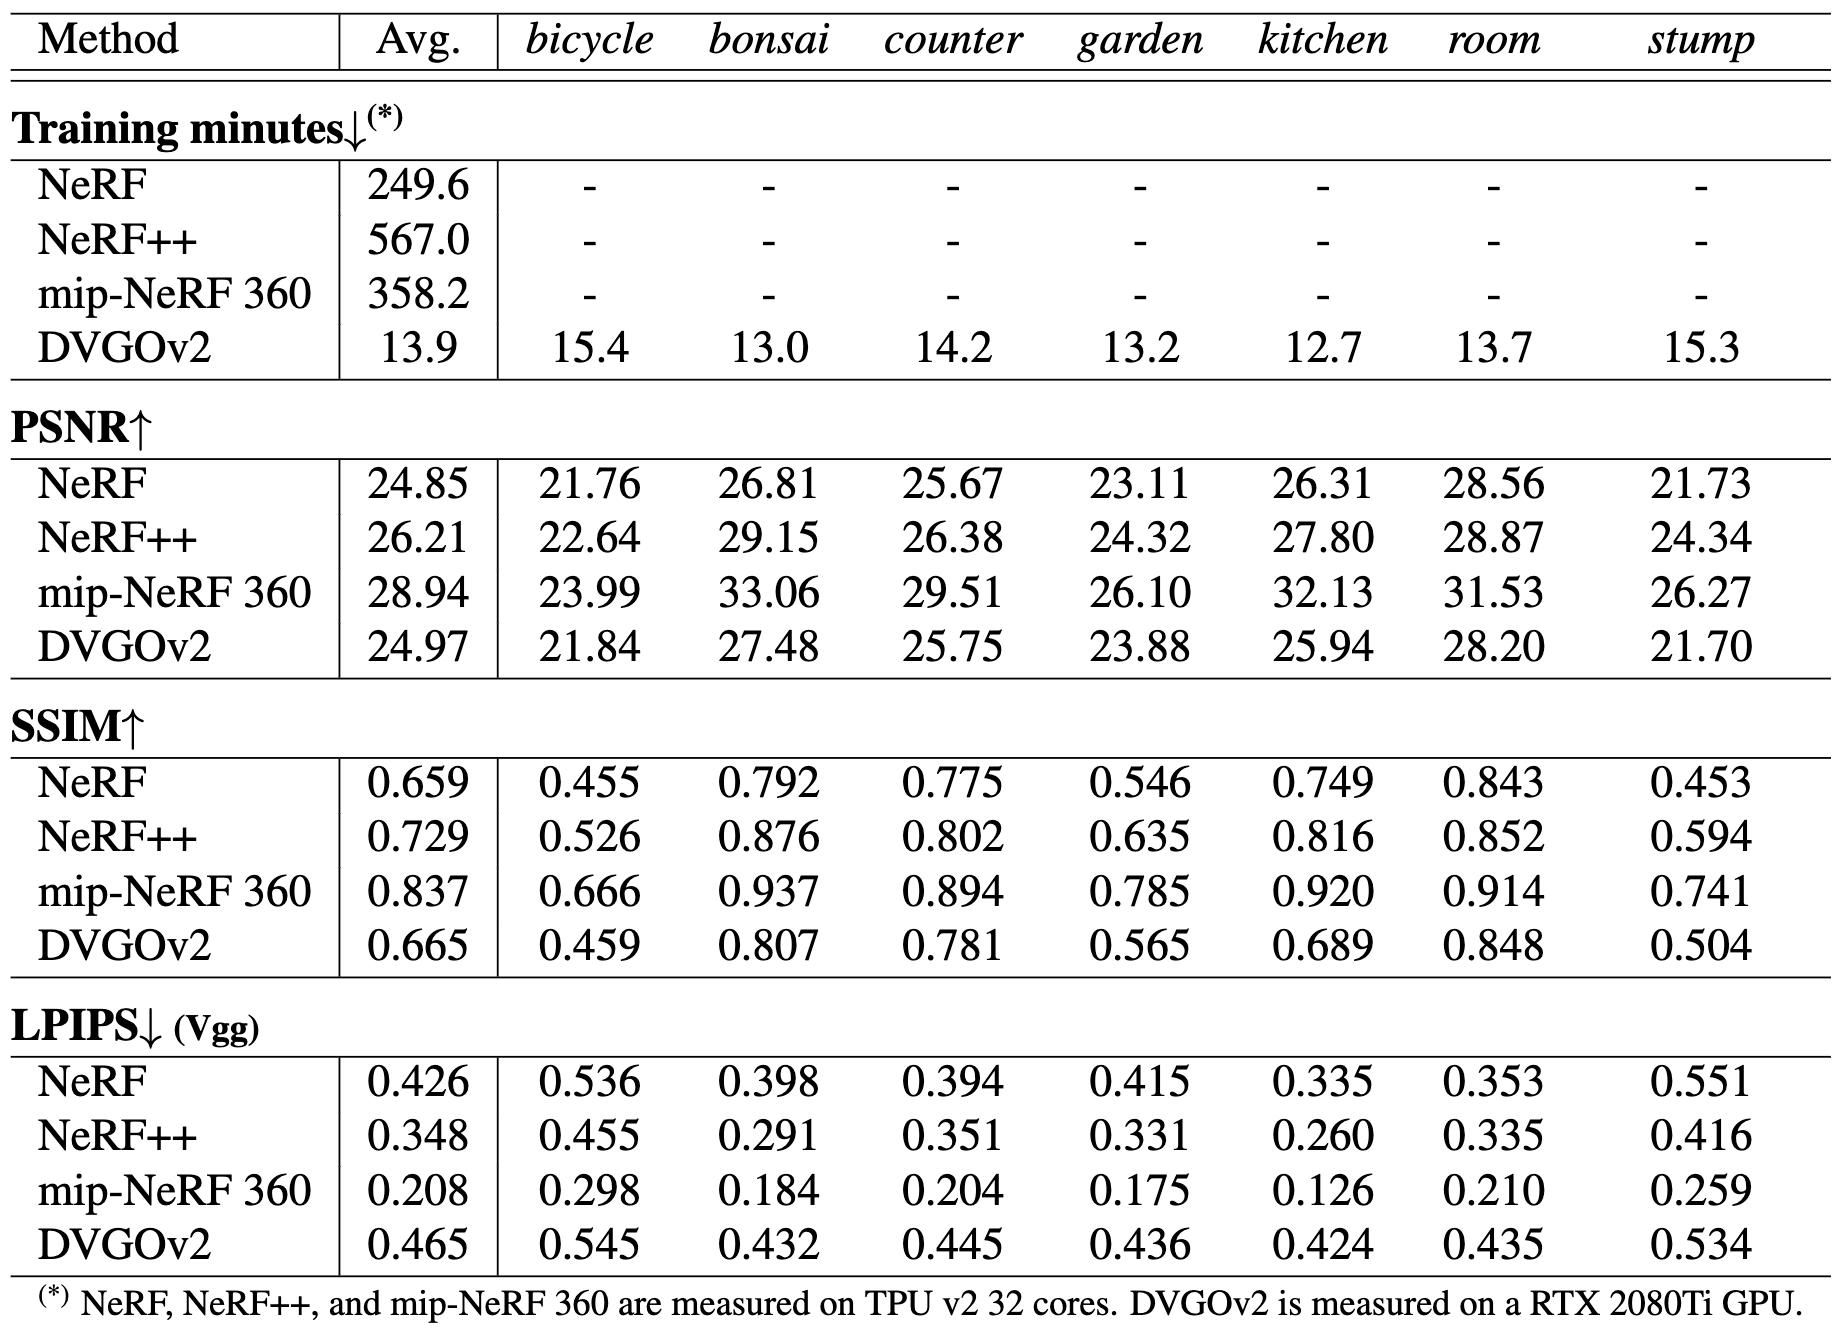
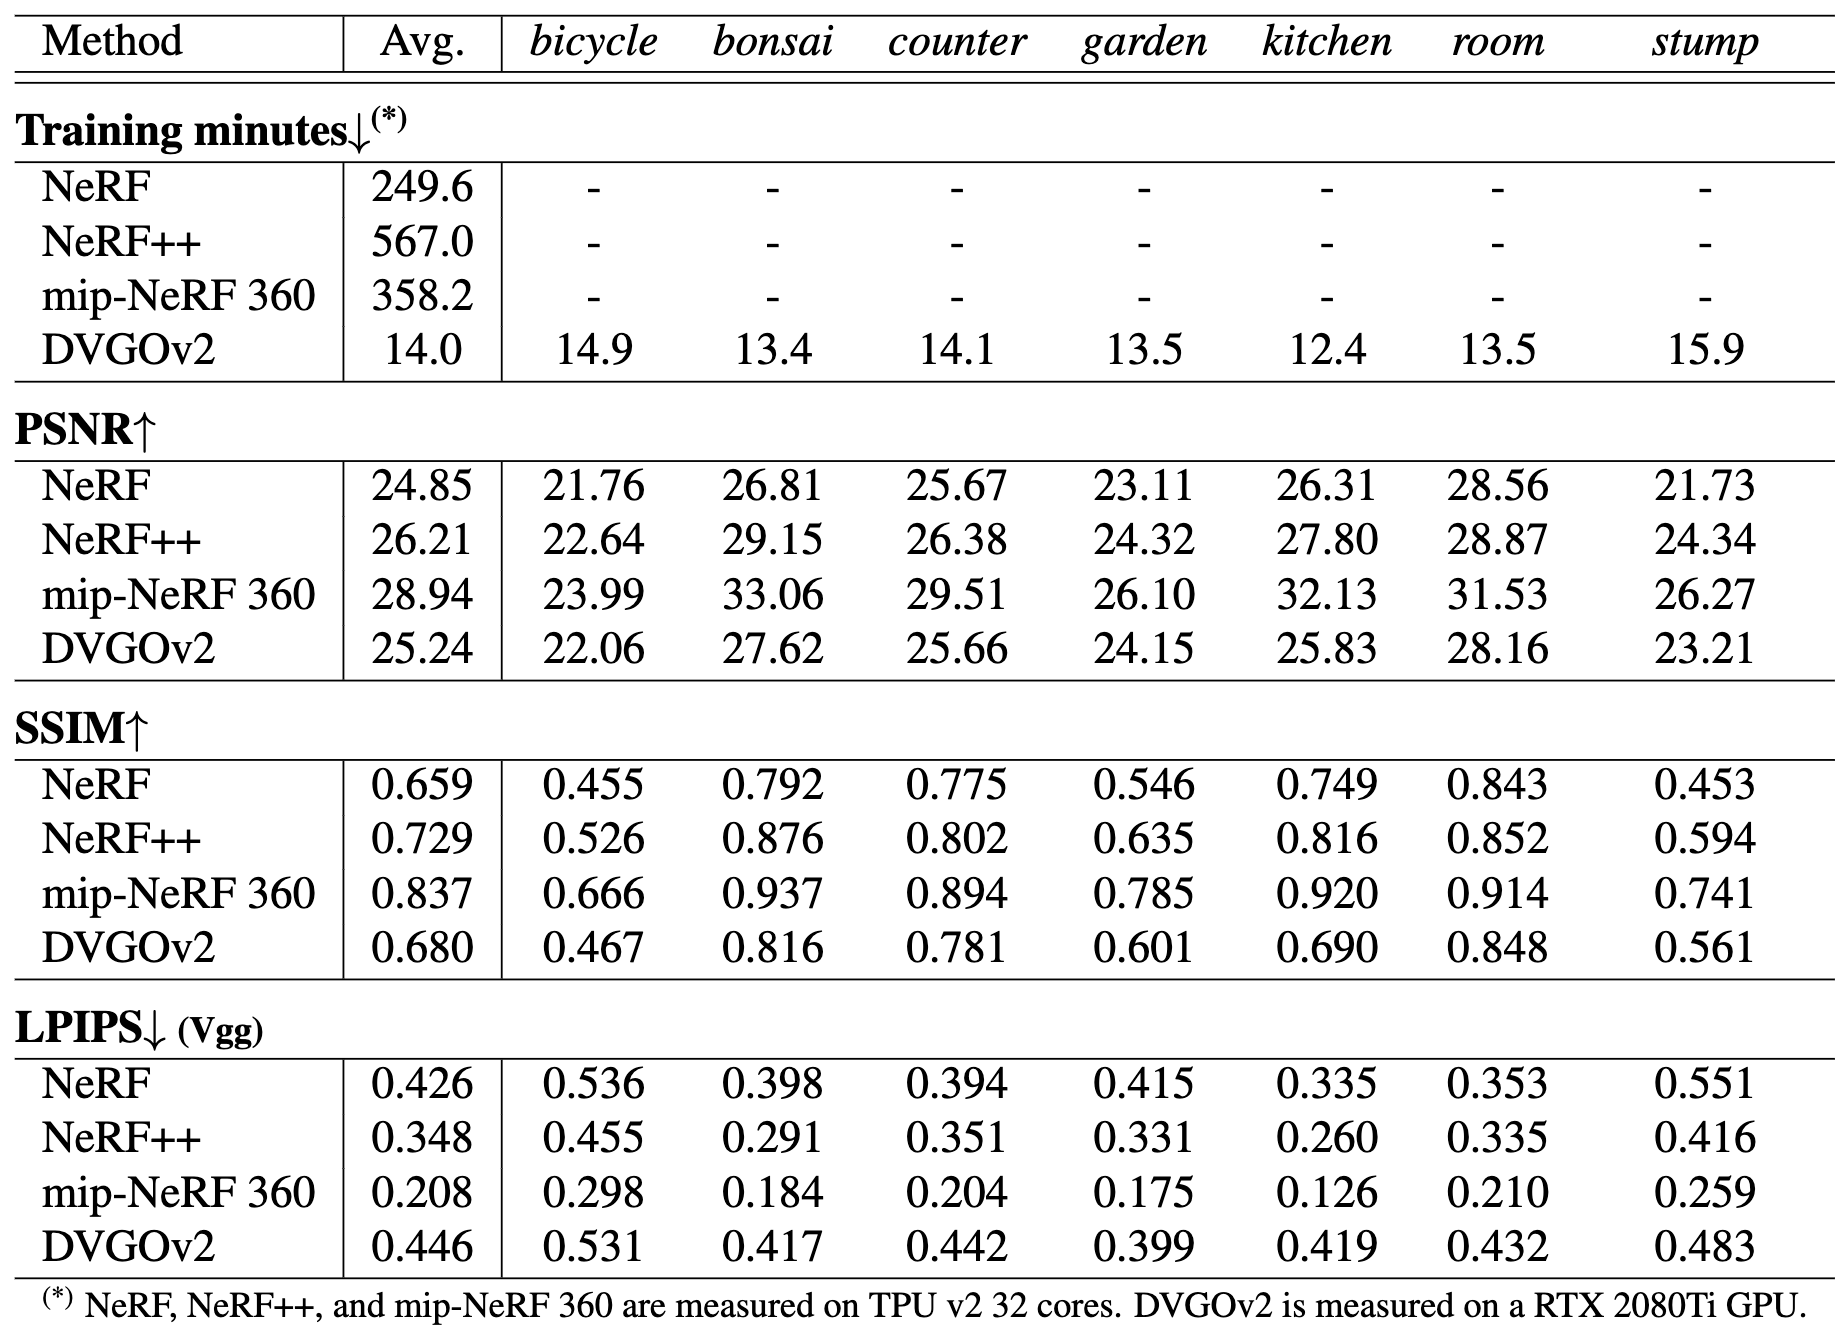
update mipnerf360 breakdown

diff --git a/dvgo/results.html b/dvgo/results.html
@@ -236,7 +236,7 @@
     NeRF         & 249.6 &   -  &   -  &   -  &   -  &   -  &   -  &   - \\
     NeRF++       & 567.0 &   -  &   -  &   -  &   -  &   -  &   -  &   - \\
     mip-NeRF 360 & 358.2 &   -  &   -  &   -  &   -  &   -  &   -  &   - \\
-    DVGOv2       & 13.9  & 15.4 & 13.0 & 14.2 & 13.2 & 12.7 & 13.7 & 15.3 \\
+    DVGOv2       &  14.0 & 14.9 &  13.4 &  14.1 &  13.5 &  12.4 &  13.5 &  15.9 \\
     \hline
 
     \multicolumn{9}{@{}l}{\rule{0pt}{3ex}\bf PSNR$\uparrow$} \\
@@ -244,7 +244,7 @@
     NeRF         & 24.85 & 21.76 & 26.81 & 25.67 & 23.11 & 26.31 & 28.56 & 21.73 \\
     NeRF++       & 26.21 & 22.64 & 29.15 & 26.38 & 24.32 & 27.80 & 28.87 & 24.34 \\
     mip-NeRF 360 & 28.94 & 23.99 & 33.06 & 29.51 & 26.10 & 32.13 & 31.53 & 26.27 \\
-    DVGOv2       & 24.97 & 21.84 & 27.48 & 25.75 & 23.88 & 25.94 & 28.20 & 21.70 \\
+    DVGOv2       & 25.24 & 22.06 & 27.62 & 25.66 & 24.15 & 25.83 & 28.16 & 23.21 \\
     \hline
 
     \multicolumn{9}{@{}l}{\rule{0pt}{3ex}\bf SSIM$\uparrow$} \\
@@ -252,7 +252,7 @@
     NeRF         & 0.659 & 0.455 & 0.792 & 0.775 & 0.546 & 0.749 & 0.843 & 0.453 \\
     NeRF++       & 0.729 & 0.526 & 0.876 & 0.802 & 0.635 & 0.816 & 0.852 & 0.594 \\
     mip-NeRF 360 & 0.837 & 0.666 & 0.937 & 0.894 & 0.785 & 0.920 & 0.914 & 0.741 \\
-    DVGOv2       & 0.665 & 0.459 & 0.807 & 0.781 & 0.565 & 0.689 & 0.848 & 0.504 \\
+    DVGOv2       & 0.680 & 0.467 & 0.816 & 0.781 & 0.601 & 0.690 & 0.848 & 0.561 \\
     \hline
 
     \multicolumn{9}{@{}l}{\rule{0pt}{3ex}\bf LPIPS$\downarrow$ {\footnotesize (Vgg)}} \\
@@ -260,7 +260,7 @@
     NeRF         & 0.426 & 0.536 & 0.398 & 0.394 & 0.415 & 0.335 & 0.353 & 0.551 \\
     NeRF++       & 0.348 & 0.455 & 0.291 & 0.351 & 0.331 & 0.260 & 0.335 & 0.416 \\
     mip-NeRF 360 & 0.208 & 0.298 & 0.184 & 0.204 & 0.175 & 0.126 & 0.210 & 0.259 \\
-    DVGOv2       & 0.465 & 0.545 & 0.432 & 0.445 & 0.436 & 0.424 & 0.435 & 0.534 \\
+    DVGOv2       & 0.446 & 0.531 & 0.417 & 0.442 & 0.399 & 0.419 & 0.432 & 0.483 \\
     \hline
     \multicolumn{9}{l}{\footnotesize$^{\text{(*)}}$~NeRF, NeRF++, and mip-NeRF 360 are measured on TPU v2 32 cores. DVGOv2 is measured on a RTX 2080Ti GPU.}
     \end{tabular}
